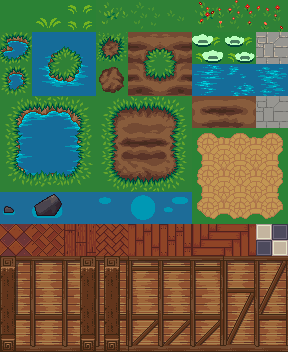
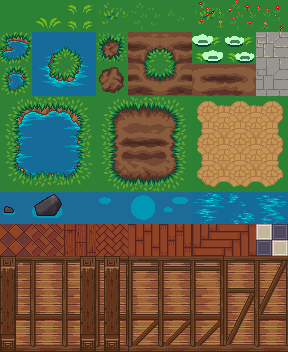
0.39.6 tile groups

Changed region(s): [[0.6562, 0.1562, 1.0, 0.4062], [0.6562, 0.5, 1.0, 0.6562]]

diff --git a/editor/data.js b/editor/data.js
@@ -7,21 +7,21 @@ import {Category, Pos, Rule} from "./auto_tiling.js"
 
 export function loadData(texture) {
     tileSet["floor"] = new TileSet(new ImageArray(texture.floor, 9, 11, 0.5, 0.5, 1, 1), [
-        0, 0, 0, 0, 0, 0, 0, 0, 0,
-        1, 1, 1, 1, 1, 1, 0, 0, 0,
-        1, 1, 1, 1, 1, 1, 0, 0, 0,
+        0, 1, 1, 1, 1, 1, 1, 1, 1,
         1, 1, 1, 1, 1, 1, 1, 1, 0,
+        1, 1, 1, 1, 1, 1, 1, 1, 0,
+        1, 1, 1, 1, 1, 1, 2, 2, 2,
         1, 0, 1, 1, 0, 1, 2, 2, 2,
         1, 1, 1, 1, 1, 1, 2, 2, 2,
-        0, 0, 0, 0, 0, 0, 2, 2, 2,
+        1, 1, 1, 1, 1, 1, 1, 1, 1,
         0, 0, 0, 0, 0, 0, 0, 0, 0,
         2, 2, 2, 2, 2, 2, 2, 2, 2,
         2, 2, 2, 2, 2, 2, 2, 2, 2,
         2, 2, 2, 2, 2, 2, 2, 2, 2,
     ], [
-        new Block(6, 4, 3, 3, 1), new Block(0, 8, 3, 3, 1),
-        new Block(3, 8, 1, 3, 1), new Block(4, 8, 3, 3, 1),
-        new Block(7, 8, 2, 3, 1),
+        new Block(0, 8, 3, 3, 1), new Block(3, 8, 1, 3, 1),
+        new Block(4, 8, 3, 3, 1), new Block(7, 8, 2, 3, 1),
+        new Block(6, 3, 3, 3, 1),
     ], [
         new Category("water", [
             new Rule(27, [new Pos(-1, 0), new Pos(0, -1), ]),
@@ -37,6 +37,15 @@ export function loadData(texture) {
             new Rule(19, [new Pos(1, -1), ]),
             new Rule(20, [new Pos(-1, -1), ]),
             new Rule(37, []),
+            new Rule(54, []),
+            new Rule(55, []),
+            new Rule(56, []),
+            new Rule(57, []),
+            new Rule(58, []),
+            new Rule(59, []),
+            new Rule(60, []),
+            new Rule(61, []),
+            new Rule(62, []),
         ], true),
         new Category("dirt", [
             new Rule(30, [new Pos(-1, 0), new Pos(0, -1), ]),
@@ -53,7 +62,7 @@ export function loadData(texture) {
             new Rule(23, [new Pos(-1, -1), ]),
             new Rule(40, []),
         ], true),
-    ], 0)
+    ], 0, [[0,1,2,3,4,5,6,7,8,15,16], [37,54,55,56,57,58,59,60,61,62], ])
     tileSet["objects"] = new TileSet(new ImageArray(texture.objects, 10, 16, 0.5, 0.5, 1, 1), [
         0, 1, 1, 1, 2, 2, 2, 2, 2, 1,
         0, 0, 0, 0, 2, 2, 2, 2, 2, 1,
@@ -101,7 +110,7 @@ export function loadData(texture) {
             new Rule(62, [new Pos(1, 0), ]),
             new Rule(61, []),
         ], false),
-    ], -1)
+    ], -1, [])
     tileSet["blocks"] = new TileSet(new ImageArray(texture.blocks, 4, 6, 0.5, 0.5, 1, 1), [
         1, 1, 1, 0,
         1, 1, 1, 1,
@@ -112,7 +121,7 @@ export function loadData(texture) {
     ], [
         new Block(2, 4, 1, 2, 0), new Block(0, 4, 2, 1, 0),
     ], [
-        new Category("tetris", [
+        new Category("blocks", [
             new Rule(3, [new Pos(0, 1), new Pos(1, 0), new Pos(0, -1), new Pos(-1, 0), ]),
             new Rule(0, [new Pos(0, 1), new Pos(-1, 0), new Pos(0, -1), ]),
             new Rule(2, [new Pos(0, -1), new Pos(1, 0), new Pos(0, 1), ]),
@@ -130,7 +139,7 @@ export function loadData(texture) {
             new Rule(13, [new Pos(0, 1), ]),
             new Rule(9, []),
         ], false),
-    ], -1)
+    ], -1, [])
     tileSet["smooth"] = new TileSet(new ImageArray(texture.smooth, 6, 12, 0.5, 0.5, 1, 1), [
         0, 1, 1, 1, 1, 1,
         1, 1, 1, 1, 1, 1,
@@ -187,13 +196,13 @@ export function loadData(texture) {
             new Rule(22, [new Pos(0, 1), new Pos(1, 0), ]),
             new Rule(47, []),
         ], false),
-    ], 0)
+    ], 0, [])
     tileSet["colors"] = new TileSet(new ImageArray(texture.colors, 4, 4, 0.5, 0.5, 1, 1), [
         0, 0, 0, 0,
         0, 0, 0, 0,
         0, 0, 0, 0,
         0, 0, 0, 0,
-    ], [], [], -1)
+    ], [], [], -1, [])
 
     tileMap["0-0"] = new TileMap(tileSet["blocks"], 4, 4, -18, -10, 1, 1, [
         -1,  -1,  -1,  -1,
@@ -336,20 +345,20 @@ export function loadData(texture) {
         -1,  -1,  -1,  -1,  -1,  -1,  -1,  -1,  -1,  -1,  -1,  -1,  -1,  -1,  -1,  -1,
     ])
     tileMap["ground"] = new TileMap(tileSet["floor"], 16, 16, 8, 21, 1, 1, [
-        0,   0,   0,   0,   0,   0,   0,   0,   0,   0,   0,   0,   0,   0,   0,   0,
-        0,   0,   0,   0,   0,   0,   0,   0,   0,   0,   0,   0,   0,   0,   0,   0,
-        0,   0,   0,   0,   0,   0,   0,   0,   0,   0,   0,   0,   0,   0,   0,   0,
-        0,   0,   0,   0,   0,   0,   0,   0,   0,   0,   0,   0,   0,   0,   0,   0,
-        0,   0,   0,   0,   0,   0,   0,   0,   0,   0,   0,   0,   0,   0,   0,   0,
-        0,   0,   0,   0,   0,   0,   0,   0,   0,   0,   0,   0,   0,   0,   0,   0,
-        0,   0,   0,   0,   0,   0,   0,   0,   0,   0,   0,   0,   0,   0,   0,   0,
-        0,   0,   0,   0,   0,   0,   0,   0,   0,   0,   0,   0,   0,   0,   0,   0,
-        0,   0,   0,   0,   0,   0,   0,   0,   0,   0,   0,   0,   0,   0,   0,   0,
-        0,   0,   0,   0,   0,   0,   0,   0,   0,   0,   0,   0,   0,   0,   0,   0,
-        0,   0,   0,   0,   0,   0,   0,   0,   0,   0,   0,   0,   0,   0,   0,   0,
-        0,   0,   0,   0,   0,   0,   0,   0,   0,   0,   0,   0,   0,   0,   0,   0,
-        0,   0,   0,   0,   0,   0,   0,   0,   0,   0,   0,   0,   0,   0,   0,   0,
-        0,   0,   0,   0,   0,   0,   0,   0,   0,   0,   0,   0,   0,   0,   0,   0,
+        0,   0,   0,   0,   0,   0,   0,  36,  37,  37,  37,  38,   0,   0,   0,   0,
+        0,   0,   0,   0,  27,  28,  28,  20,  37,  37,  37,  38,   0,   0,   0,   0,
+        0,  27,  28,  28,  20,  37,  37,  37,  37,  37,  37,  38,   0,   0,   0,   0,
+        0,  36,  37,  37,  37,  37,  37,  37,  37,  37,  37,  19,  28,  29,   0,   0,
+        28,  20,  37,  37,  37,  37,  37,  37,  37,  37,  37,  37,  37,  19,  29,   0,
+        37,  37,  37,  37,  37,  37,  37,  37,  37,  37,  37,  37,  37,  37,  38,   0,
+        37,  37,  37,  37,  37,  37,  37,  37,  37,  37,  37,  37,  37,  37,  38,   0,
+        37,  37,  37,  37,  37,  37,  37,  37,  37,  37,  37,  37,  37,  37,  38,   0,
+        37,  37,  37,  37,  37,  37,  37,  37,  37,  37,  37,  37,  37,  10,  47,   0,
+        37,  37,  37,  37,  37,  37,  37,  37,  37,  37,  37,  37,  37,  38,   0,   0,
+        37,  37,  37,  37,  37,  37,  37,  37,  37,  37,  37,  37,  37,  38,   0,   0,
+        37,  37,  37,  37,  37,  37,  37,  37,  37,  37,  37,  37,  37,  38,   0,   0,
+        46,  46,  46,  46,  46,  46,  46,  11,  37,  37,  37,  37,  37,  38,   0,   0,
+        0,   0,   0,   0,   0,   0,   0,  45,  46,  46,  46,  46,  46,  47,   0,   0,
         0,   0,   0,   0,   0,   0,   0,   0,   0,   0,   0,   0,   0,   0,   0,   0,
         0,   0,   0,   0,   0,   0,   0,   0,   0,   0,   0,   0,   0,   0,   0,   0,
     ])

diff --git a/editor/tile_map.js b/editor/tile_map.js
@@ -1,4 +1,4 @@
-import {mouse, removeFromArray} from "../src/system.js"
+import {mouse, removeFromArray, rndi} from "../src/system.js"
 import {tileMap, tileMaps} from "../src/project.js"
 import {addTileMap} from "./create_tile_map.js"
 import {
@@ -19,7 +19,7 @@ import {
 import {getName, incrementName, setName} from "./names.js"
 import {ctx, distToScreen, xToScreen, yToScreen} from "../src/canvas.js"
 import {clearSelection, mapSelectionRegion, selectedTileMaps} from "./select_tile_maps.js"
-import {currentBlock, currentTile, currentTileSet} from "./tile_set.js"
+import {altGroup, currentBlock, currentGroup, currentTile, currentTileSet} from "./tile_set.js"
 import {updateNewMapWindow} from "./new_map.js"
 import Sprite from "../src/sprite.js"
 import {resetRegionSelector} from "./select_tile_set_region.js"
@@ -132,7 +132,7 @@ export function setBlockSize(width, height) {
     blockHeight = height
 }
 
-export function setTiles(column, row, width, height, tileNum, block) {
+export function setTiles(column, row, width, height, tileNum, block, group) {
     if(block !== undefined && block.type === blockType.frame) {
         if(block.width < 3) width = block.width
         if(block.height < 3) height = block.height
@@ -155,7 +155,7 @@ export function setTiles(column, row, width, height, tileNum, block) {
                     let dy = y - 0.5 * (height - 1)
                     if(Math.sqrt(dx * dx + dy * dy) > 0.5 * width) continue
                 }
-                currentTileMap.setTile(xx, yy, tileNum)
+                currentTileMap.setTile(xx, yy, group === undefined ? tileNum : group[rndi(0, group.length)])
             } else if(block.type === blockType.block) {
                 setTile(x, y)
             } else if(block.type === blockType.frame) {
@@ -191,14 +191,14 @@ export function tileModeOperations() {
 
     if(selectKey.isDown) {
         if(currentBlock === undefined) {
-            setTiles(column, row, blockWidth, blockHeight, currentTile)
+            setTiles(column, row, blockWidth, blockHeight, currentTile, undefined, currentGroup)
         } else if(currentBlock.type === blockType.block) {
             column = Math.floor((column - startTileColumn) / blockWidth) * blockWidth + startTileColumn
             row = Math.floor((row - startTileRow) / blockHeight) * blockHeight + startTileRow
             setTiles(column, row, blockWidth, blockHeight, undefined, currentBlock)
         }
     } else if(delKey.isDown) {
-        setTiles(column, row, blockWidth, blockHeight, currentTileSet.altTile)
+        setTiles(column, row, blockWidth, blockHeight, currentTileSet.altTile, undefined, altGroup)
     }
 
     if(changeBrushTypeKey.wasPressed) {

diff --git a/editor/tile_set.js b/editor/tile_set.js
@@ -11,7 +11,7 @@ import {tilesPerRow} from "./tile_zoom.js"
 import {updateY0, y0} from "./tile_pan.js"
 import {currentWindow} from "../src/gui/window.js"
 
-export let currentTile = 1, currentTileSet, currentBlock
+export let currentTile = 1, currentTileSet, currentBlock, currentGroup, altGroup
 export let maxY0 = 0
 
 function processTiles(tileFunction, blockFunction) {
@@ -35,7 +35,6 @@ function processTiles(tileFunction, blockFunction) {
         for(let i = 0; i < images.quantity; i++) {
             if(set.visibility[i] !== visibility.visible) continue
             incrementPos()
-
             tileFunction(set, images, i, x, y, size)
         }
 
@@ -48,9 +47,6 @@ function processTiles(tileFunction, blockFunction) {
             let ty = block.y * cellHeight
             let tWidth = block.width * cellWidth
             let tHeight = block.height * cellHeight
-
-
-
             blockFunction(set, block, texture, tx, ty, tWidth, tHeight, x, y, size)
         }
     }
@@ -87,6 +83,14 @@ export function renderTileSet() {
     })
 }
 
+function findGroup(set, tileNum) {
+    for(let group of set.groups) {
+        if(group[0] !== tileNum) continue
+        return group
+    }
+    return undefined
+}
+
 export function tileSetOperations() {
     processTiles((set, images, i, x, y, size) => {
         if((selectKey.wasPressed || delKey.wasPressed) && boxWithPointCollision(canvasMouse, x, y, size, size)
@@ -96,8 +100,10 @@ export function tileSetOperations() {
                 currentBlock = undefined
                 setBlockSize(brushSize, brushSize)
                 currentTileSet = set
+                currentGroup = findGroup(set, currentTile)
             } else {
                 set.altTile = set.altTile === i ? -1 : i
+                altGroup = findGroup(set, set.altTile)
             }
         }
     }, (set, block, texture, tx, ty, tWidth, tHeight, x, y, size) => {

diff --git a/editor/auto_tiling.js b/editor/auto_tiling.js
@@ -1,8 +1,8 @@
-import {currentTileSet} from "./tile_set.js"
+import {altGroup, currentTileSet} from "./tile_set.js"
 import {rulesGrid, rulesList, rulesTileSetCanvas, selectKey, tileHeight, tileWidth} from "./main.js"
 import {renderTileSetCanvas} from "./tile_set_properties.js"
 import {canvasUnderCursor, ctx, currentCanvas} from "../src/canvas.js"
-import {canvasMouse, element, removeFromArray} from "../src/system.js"
+import {canvasMouse, element, removeFromArray, rndi} from "../src/system.js"
 import {drawDashedRegion, drawRect} from "../src/draw.js"
 import {tilesPerRow} from "./tile_zoom.js"
 import {arrayToString} from "./save_load.js"
@@ -339,7 +339,8 @@ export function enframeTile(map, column, row) {
             let category = findTileCategory(map, pos.dx + column, pos.dy + row, prolong)
             if(category === tileCategory) continue rule
         }
-        map.setTile(column, row, rule.tile)
+        map.setTile(column, row, altGroup !== undefined && altGroup[0] === rule.tile
+            ? altGroup[rndi(0, altGroup.length)] : rule.tile)
         return
     }
 }

diff --git a/src/tile_set.js b/src/tile_set.js
@@ -17,20 +17,22 @@ export default class TileSet {
     blocks
     categories
     altTile
+    groups
 
-    constructor(images, vis, blocks = [], categories = [], altTile = -1) {
+    constructor(images, vis, blocks = [], categories = [], altTile = -1, groups = []) {
         this.#images = images
         this.#collision = new Array(images.quantity)
         this.visibility = vis ? vis : new Array(images.quantity).fill(visibility.visible)
         this.blocks = blocks
         this.categories = categories
         this.altTile = altTile
+        this.groups = groups
     }
 
     toString() {
         return `new TileSet(${this.#images.toString()}, ${arrayToString(this.visibility, this.columns, 1)}`
             + `, ${arrayToString(this.blocks, 2)}, ${arrayToString(this.categories, 1)}`
-            + `, ${this.altTile})`
+            + `, ${this.altTile}, ${arrayToString(this.groups)})`
     }
 
     get images() {

diff --git a/editor/save_load.js b/editor/save_load.js
@@ -35,7 +35,8 @@ export function arrayToString(array, columns, padding = 0) {
         if(columns !== undefined && (pos % columns) === 0) {
             text +=`\n${indent}`
         }
-        text += (columns === undefined ? array[pos].toString() : array[pos].toString().padStart(padding, " ")) + ", "
+        let item = array[pos]
+        text += (columns === undefined ? toString(item) : item.toString().padStart(padding, " ")) + ", "
     }
     removeIndent()
     return text + (columns === undefined || array.length === 0 ? "" : "\n" + indent) + "]"
